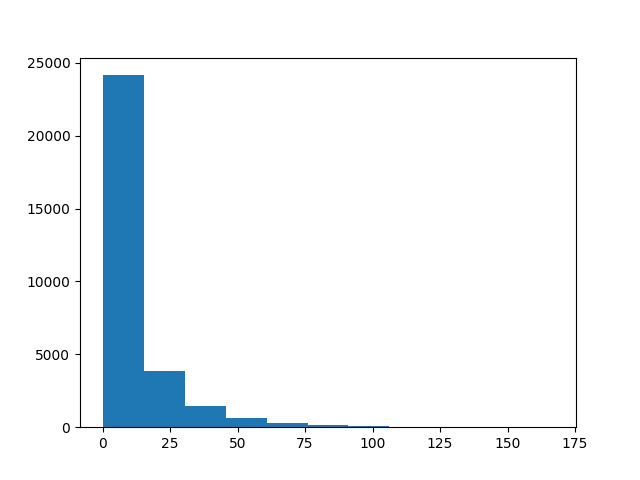
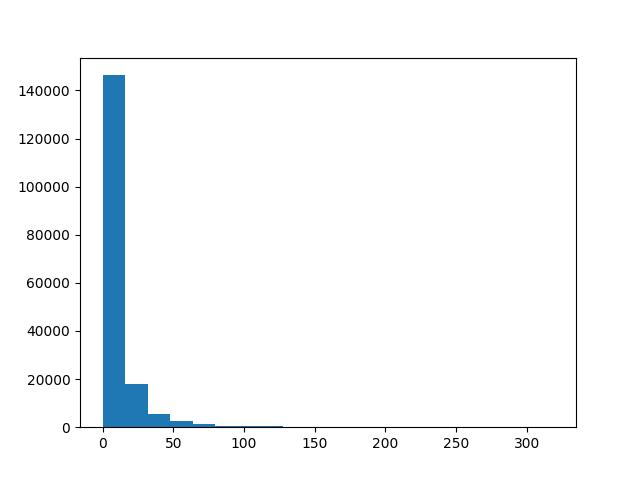
util: analyze the feature distribution.

diff --git a/agent/dataset/data_loader.py b/agent/dataset/data_loader.py
@@ -174,16 +174,17 @@ if __name__ == '__main__':
     #       f"neighbor_mean: {neighbor_mean}, \n neighbor_std: {neighbor_std}, \n"
     #       f"total_samples: {total_samples}")
 
-    file_path = os.path.dirname(os.path.abspath(__file__)) + "/data-1734947331.h5"
-    selected_self_features = ['cw', #'n_defer_access', 'n_waited_slots', 
-                            #   'n_in_queue', 'n_sending', 'n_acked', 'n_rx_drop', 
+    file_path = os.path.dirname(os.path.abspath(__file__)) + "/data-1734690536.h5"
+    selected_self_features = [#'cw', 'n_defer_access', 'n_waited_slots', 
+                            #   'n_in_queue', 'n_sending', 'n_acked', 
+                            'n_rx_drop', 
                             #   'n_tx_data', 'n_acked_data', 
                             #   'last_tx_delay', 'last_txok_delay', 'chan_util', 
                             #   'app_interval_mean', 'app_interval_std', 'app_interval_min', 'app_interval_max',
                             #   'tx_interval_mean', 'tx_interval_std', 'tx_interval_min', 'tx_interval_max', 
                             #   'tx_duration_mean', 'tx_duration_std', 'tx_duration_min', 'tx_duration_max'
                               ]
-    selected_neighbor_features = ['role', #'n_tx_data', 'n_acked_data', 'last_tx_delay', 
+    selected_neighbor_features = ['role', 'n_tx_data', 'n_acked_data', 'last_tx_delay', 
                                 #   'last_txok_delay', 'chan_util', 'mean_rssi', 
                                 #   'tx_interval_mean', 'tx_interval_std', 'tx_interval_min', 'tx_interval_max', 
                                 #   'tx_duration_mean', 'tx_duration_std', 'tx_duration_min', 'tx_duration_max'
@@ -192,9 +193,9 @@ if __name__ == '__main__':
     dataset = HDF5Dataset(file_path, selected_self_features, selected_neighbor_features, normalize=False)
     data_loader = DataLoader(
         dataset,
-        batch_size=8,
+        batch_size=32,
         shuffle=False,
-        num_workers=1,
+        num_workers=4,
         collate_fn=collate_fn
     )
 
@@ -209,11 +210,11 @@ if __name__ == '__main__':
     #     print("Min Neighbor Backoffs Shape:", min_neighbor_backoffs.shape)
     
     # analyze dataset
-    feature = []
-    for _, selected_neighbor_features, _, _ in data_loader:
-        batch_feature = selected_neighbor_features.view(-1)
-        feature.extend(batch_feature.tolist())
+    feature_list = []
+    for feature, _, _, _ in data_loader:
+        batch_feature = feature.view(-1)
+        feature_list.extend(batch_feature.tolist())
     
     plt.figure()
-    plt.hist(feature, bins=20)
+    plt.hist(feature_list, bins=20)
     plt.show()
